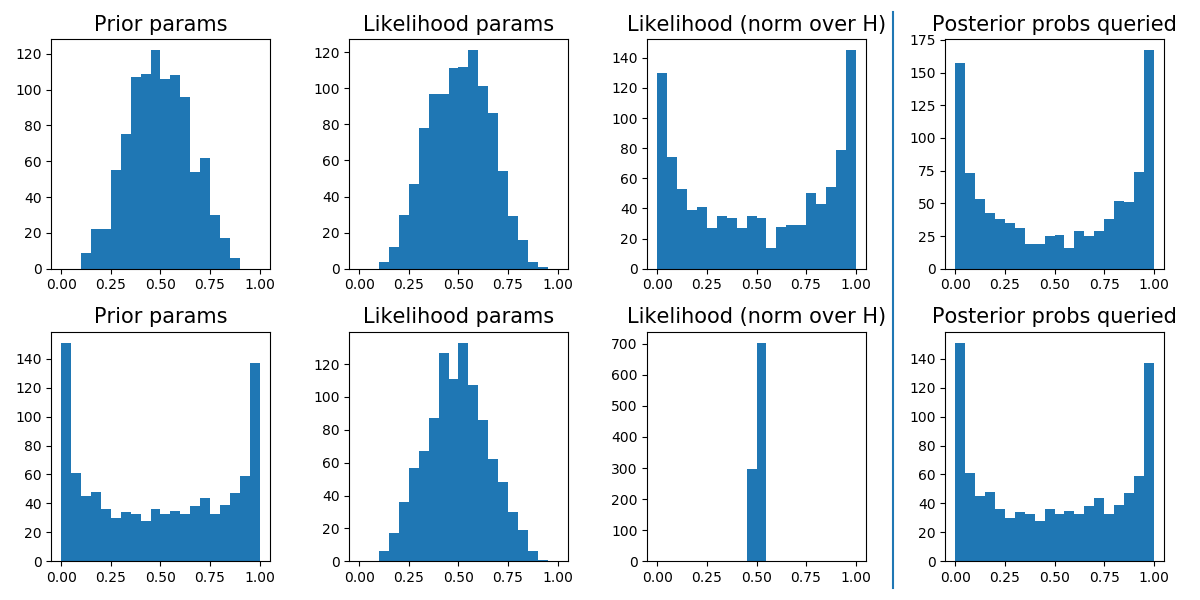
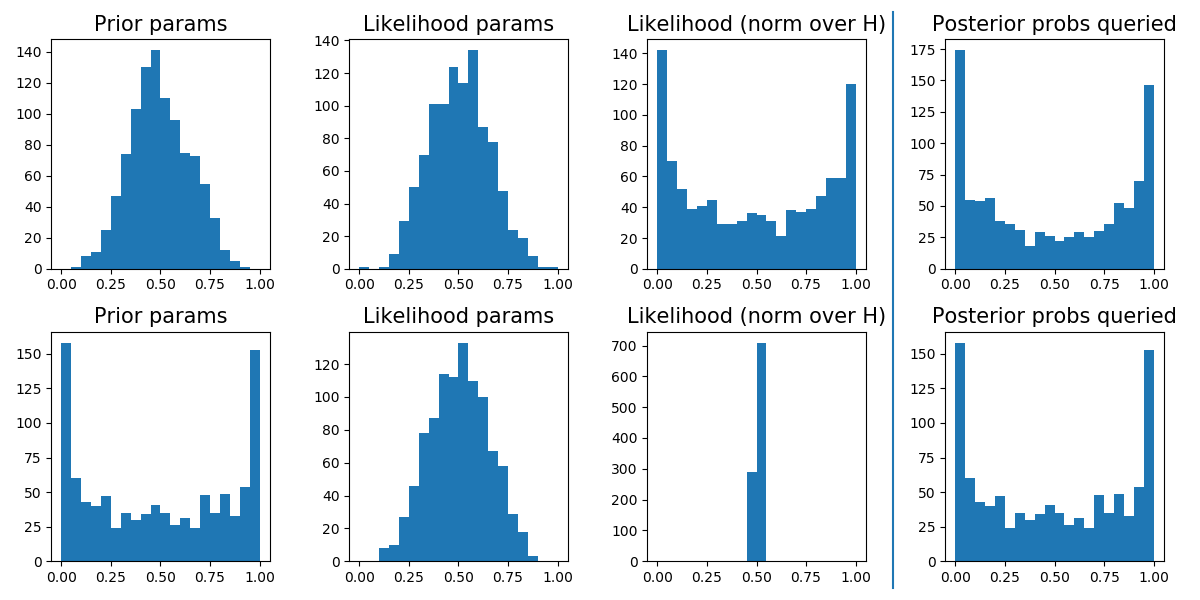
Edits to include log-odds from LTI experiment

diff --git a/link2CP/demo.py b/link2CP/demo.py
@@ -1,7 +1,8 @@
 import numpy as np
 import matplotlib
 import matplotlib.pyplot as plt
-N = 1000
+import json
+N = 100
 Nbin = 20
 # prior prob of choosing urn 1
 priors = {}
@@ -20,45 +21,67 @@ def ret_likl(lik_param, data):
         likls.append(d*lik_param + (1 - lik_param)*(1-d))
     return np.prod(np.array(likls))
         
-
-def plotall(priors, lik_params, likls, posts, which):
+def log_odds_func(x):
+    return(np.log(x / (1.0 - x)))
+    
+def plotall(priors, lik_params, likls, posts, which, log_odds = False):
     fig = plt.figure(figsize = (12,6))
     figtr = fig.transFigure.inverted()
+    
+    if log_odds:
+        f = log_odds_func
+        g_range = (-4, 4)
+        Xlab = "Log odds"
+    else:
+        f = lambda x : x
+        g_range = (0,1)
+        Xlab = "Probabilities"
     
     count = 1
     for cond in conds:
         ax = plt.subplot(2,4,count)
-        ax.hist(priors[cond], bins = Nbin, range = (0.0,1.0))
-        ax.set_title("Prior params".format(cond), fontsize = 15)
+        ax.hist(f(priors[cond]), bins = Nbin, normed = True, range = g_range)
+        ax.set_xlabel(Xlab)
+        ax.set_ylabel("Probability")
+        ax.set_title("Prior".format(cond), fontsize = 15)
         count += 1
         
         ax0tr = ax.transData
         xy0 = figtr.transform(ax0tr.transform((0.3,10)))
 
         ax = plt.subplot(2,4,count)
-        ax.hist(lik_params[cond], bins = Nbin, range = (0.0,1.0))
-        ax.set_title("Likelihood params".format(cond), fontsize = 15)
+        ax.hist(f(lik_params[cond]), bins = Nbin, normed = True, range = g_range)
+        ax.set_xlabel(Xlab)
+        ax.set_ylabel("Probability")
+        ax.set_title("Likelihood".format(cond), fontsize = 15)
         count += 1
         
                 
-        ax = plt.subplot(2,4,count)
-        ax.hist(likls[cond], bins = Nbin, range = (0.0,1.0))
-        ax.set_title("Likelihood (norm over H)".format(cond), fontsize = 15)
-        count += 1
+        if not log_odds:
+            ax = plt.subplot(2,4,count)
+            ax.hist(f(likls[cond]), bins = Nbin, normed = True, range = g_range)
+            ax.set_xlabel(Xlab)
+            ax.set_ylabel("Probability")
+            ax.set_title("Likelihood (norm over H)".format(cond), fontsize = 15)
+            count += 1
         
 
         ax = plt.subplot(2,4,count)
-        ax.hist(posts[cond], bins = Nbin, range = (0.0,1.0))
-        ax.set_title("Posterior probs queried".format(cond), fontsize = 15)
+        ax.hist(f(posts[cond]), bins = Nbin, normed = True, range = g_range)
+        ax.set_xlabel(Xlab)
+        ax.set_ylabel("Probability")
+        ax.set_title("Posterior probs".format(cond), fontsize = 15)
         count += 1
         ax0tr = ax.transData
         xy1 = figtr.transform(ax0tr.transform((0.3,10)))
+        
+        if log_odds: count +=1
         
     fig.tight_layout()
     
     line = matplotlib.lines.Line2D((0.744, 0.744), (0.02, 0.98), transform=fig.transFigure)
     
-    fig.lines = line,
+    if not log_odds: fig.lines = line,
     
 
     plt.savefig("type_{0}.png".format(which))
@@ -73,13 +96,21 @@ def plotall(priors, lik_params, likls, posts, which):
 which = str(3.1)
 Ndata = 1
 fac = 10.0
+mid = [0.5, 0.5, 0.4, 0.6]
+end = [0.1, 0.1, 0.2, 0.3, 0.9, 0.9, 0.8, 0.7]
+
+priors['inf'] = np.random.choice(mid, N)
+priors['uninf'] = np.random.choice(end, N)
+
+lik_params['inf'] = np.random.choice(end, N)
+lik_params['uninf'] = np.random.choice(mid, N)
 
 
-priors['inf'] = np.clip(np.random.beta(fac, fac, N), 0.001, 0.999)
-priors['uninf'] = np.clip(np.random.beta(1.0/fac, 1.0/fac, N), 0.001, 0.999)
+#priors['inf'] = np.clip(np.random.beta(fac, fac, N), 0.001, 0.999)
+#priors['uninf'] = np.clip(np.random.beta(1.0/fac, 1.0/fac, N), 0.001, 0.999)
 
-lik_params['inf'] = np.clip(np.random.beta(1.0/fac, 1.0/fac, N), 0.001, 0.999)
-lik_params['uninf'] = np.clip(np.random.beta(fac, fac, N), 0.001, 0.999)
+#lik_params['inf'] = np.clip(np.random.beta(1.0/fac, 1.0/fac, N), 0.001, 0.999)
+#lik_params['uninf'] = np.clip(np.random.beta(fac, fac, N), 0.001, 0.999)
 
 data = []
 
@@ -105,123 +136,130 @@ for cond in conds:
     
     
     
-plotall(priors, lik_params, likls, posts, which)
+plotall(priors, lik_params, likls, posts, which, log_odds = True)
+#Store log odds
+for name, t in zip(('priors', 'likls', 'posts'), (priors, lik_params, posts)):
+    for key in t:
+        t[key] = list(log_odds_func(t[key]))
+        
+    with open(name + '.txt', 'w') as fn:
+        json.dump(t,fn)
+        
+        
+##********************************************
+##3.2 : Vary only diagnosticity of likelihood + 
+##      certainty of hypotheses queried
+##********************************************
+
+#which = str(3.2)
+#Ndata = 8
+#Ndiff = 4
+
+##fac = 2
+
+#priors['inf'] = np.clip(np.random.beta(5.0, 5.0, N), 0.001, 0.999)
+##priors['uninf'] = np.clip(np.random.beta(5.0, 5.0, N), 0.001, 0.999)
+#priors['uninf'] = np.clip(np.random.beta(0.5, 0.5, N), 0.001, 0.999)
+
+#lik_params['inf'] = np.clip(np.random.beta(5.0, 5.0, N), 0.001, 0.999)
+#lik_params['uninf'] = np.clip(np.random.beta(5.0, 5.0, N), 0.001, 0.999)
 
 
-#********************************************
-#3.2 : Vary only diagnosticity of likelihood + 
-#      certainty of hypotheses queried
-#********************************************
+#data = []
 
-which = str(3.2)
-Ndata = 8
-Ndiff = 4
-
-#fac = 2
-
-priors['inf'] = np.clip(np.random.beta(5.0, 5.0, N), 0.001, 0.999)
-#priors['uninf'] = np.clip(np.random.beta(5.0, 5.0, N), 0.001, 0.999)
-priors['uninf'] = np.clip(np.random.beta(0.5, 0.5, N), 0.001, 0.999)
-
-lik_params['inf'] = np.clip(np.random.beta(5.0, 5.0, N), 0.001, 0.999)
-lik_params['uninf'] = np.clip(np.random.beta(5.0, 5.0, N), 0.001, 0.999)
-
-
-data = []
-
-for cond in conds:
-    data = []
-    for p, l in zip(priors[cond], lik_params[cond]):
-        urn = np.random.binomial(1,p)
-        if urn:
-            lik = l
-        else:
-            lik = 1 - l
+#for cond in conds:
+    #data = []
+    #for p, l in zip(priors[cond], lik_params[cond]):
+        #urn = np.random.binomial(1,p)
+        #if urn:
+            #lik = l
+        #else:
+            #lik = 1 - l
             
-        if cond == 'uninf':
-            N1s = int(Ndata/2)
-        elif cond == 'inf':
-            N1s = int(Ndata/2) + (
-                (lik > 0.5)*Ndiff - (lik < 0.5)*Ndiff)/2
+        #if cond == 'uninf':
+            #N1s = int(Ndata/2)
+        #elif cond == 'inf':
+            #N1s = int(Ndata/2) + (
+                #(lik > 0.5)*Ndiff - (lik < 0.5)*Ndiff)/2
 
-        N0s = Ndata - N1s
+        #N0s = Ndata - N1s
         
 
-        manipulated_data = np.array([0]*N0s + [1]*N1s)
-        np.random.shuffle(manipulated_data)
-        data.append(manipulated_data)
+        #manipulated_data = np.array([0]*N0s + [1]*N1s)
+        #np.random.shuffle(manipulated_data)
+        #data.append(manipulated_data)
         
         
-    data = np.array(data)
+    #data = np.array(data)
             
-    likls[cond] = np.array([ret_likl(lp, d) for lp, d in zip(lik_params[cond], data)])
+    #likls[cond] = np.array([ret_likl(lp, d) for lp, d in zip(lik_params[cond], data)])
     
-    likls_other = np.array([ret_likl(lp, d) for lp, d in zip(1 - lik_params[cond], data)])
-    posts[cond] = likls[cond] * priors[cond] / (likls[cond] * priors[cond] + likls_other * (1 - priors[cond]))
+    #likls_other = np.array([ret_likl(lp, d) for lp, d in zip(1 - lik_params[cond], data)])
+    #posts[cond] = likls[cond] * priors[cond] / (likls[cond] * priors[cond] + likls_other * (1 - priors[cond]))
     
-    likls[cond] = likls[cond] / (likls[cond] + likls_other)
+    #likls[cond] = likls[cond] / (likls[cond] + likls_other)
     
     
-plotall(priors, lik_params, likls, posts, which)
+#plotall(priors, lik_params, likls, posts, which)
 
-#********************************************
-#3.3 : Vary only parameters OR only parameters 
-#      + certainty of hypotheses queried
-#********************************************
-
-
-which = str(3.3)
-Ndata = 10
-odds = 3
-
-fac = 10
-
-priors['inf'] = np.clip(np.random.beta(fac, fac, N), 0.001, 0.999)
-priors['uninf'] = np.clip(np.random.beta(1.0/fac, 1.0/fac, N), 0.001, 0.999)
-#priors['uninf'] = np.clip(np.random.beta(fac, fac, N), 0.001, 0.999)
-
-lik_params['inf'] = np.clip(np.random.beta(0.5, 0.5, N), 0.1, 0.9)
-lik_params['uninf'] = np.clip(np.random.beta(5.0, 5.0, N), 0.1, 0.9)
+##********************************************
+##3.3 : Vary only parameters OR only parameters 
+##      + certainty of hypotheses queried
+##********************************************
 
 
-data = []
+#which = str(3.3)
+#Ndata = 10
+#odds = 3
 
-for cond in conds:
-    data = []
-    for p, l in zip(priors[cond], lik_params[cond]):
-        urn = np.random.binomial(1,p)
-        if urn:
-            lik = l
-        else:
-            lik = 1 - l
+#fac = 10
+
+#priors['inf'] = np.clip(np.random.beta(fac, fac, N), 0.001, 0.999)
+#priors['uninf'] = np.clip(np.random.beta(1.0/fac, 1.0/fac, N), 0.001, 0.999)
+##priors['uninf'] = np.clip(np.random.beta(fac, fac, N), 0.001, 0.999)
+
+#lik_params['inf'] = np.clip(np.random.beta(0.5, 0.5, N), 0.1, 0.9)
+#lik_params['uninf'] = np.clip(np.random.beta(5.0, 5.0, N), 0.1, 0.9)
+
+
+#data = []
+
+#for cond in conds:
+    #data = []
+    #for p, l in zip(priors[cond], lik_params[cond]):
+        #urn = np.random.binomial(1,p)
+        #if urn:
+            #lik = l
+        #else:
+            #lik = 1 - l
             
-        r = lik/(1.0*(1-lik))
-        Ndiff = int(np.round(np.log(odds)/np.log(r)))
-        N1s = int(Ndata/2) + (
-            (lik > 0.5)*Ndiff - (lik < 0.5)*Ndiff)/2
+        #r = lik/(1.0*(1-lik))
+        #Ndiff = int(np.round(np.log(odds)/np.log(r)))
+        #N1s = int(Ndata/2) + (
+            #(lik > 0.5)*Ndiff - (lik < 0.5)*Ndiff)/2
 
-        N0s = Ndata - N1s
+        #N0s = Ndata - N1s
         
-        #if not Ndiff:
-            #print(lik, np.log(r))
+        ##if not Ndiff:
+            ##print(lik, np.log(r))
         
 
-        manipulated_data = np.array([0]*N0s + [1]*N1s)
-        np.random.shuffle(manipulated_data)
-        data.append(manipulated_data)
+        #manipulated_data = np.array([0]*N0s + [1]*N1s)
+        #np.random.shuffle(manipulated_data)
+        #data.append(manipulated_data)
         
         
-    data = np.array(data)
+    #data = np.array(data)
             
-    likls[cond] = np.array([ret_likl(lp, d) for lp, d in zip(lik_params[cond], data)])
+    #likls[cond] = np.array([ret_likl(lp, d) for lp, d in zip(lik_params[cond], data)])
     
-    likls_other = np.array([ret_likl(lp, d) for lp, d in zip(1 - lik_params[cond], data)])
-    posts[cond] = likls[cond] * priors[cond] / (likls[cond] * priors[cond] + likls_other * (1 - priors[cond]))
+    #likls_other = np.array([ret_likl(lp, d) for lp, d in zip(1 - lik_params[cond], data)])
+    #posts[cond] = likls[cond] * priors[cond] / (likls[cond] * priors[cond] + likls_other * (1 - priors[cond]))
     
-    likls[cond] = likls[cond] / (likls[cond] + likls_other)
+    #likls[cond] = likls[cond] / (likls[cond] + likls_other)
     
     
-plotall(priors, lik_params, likls, posts, which)
+#plotall(priors, lik_params, likls, posts, which)
 
 
 
